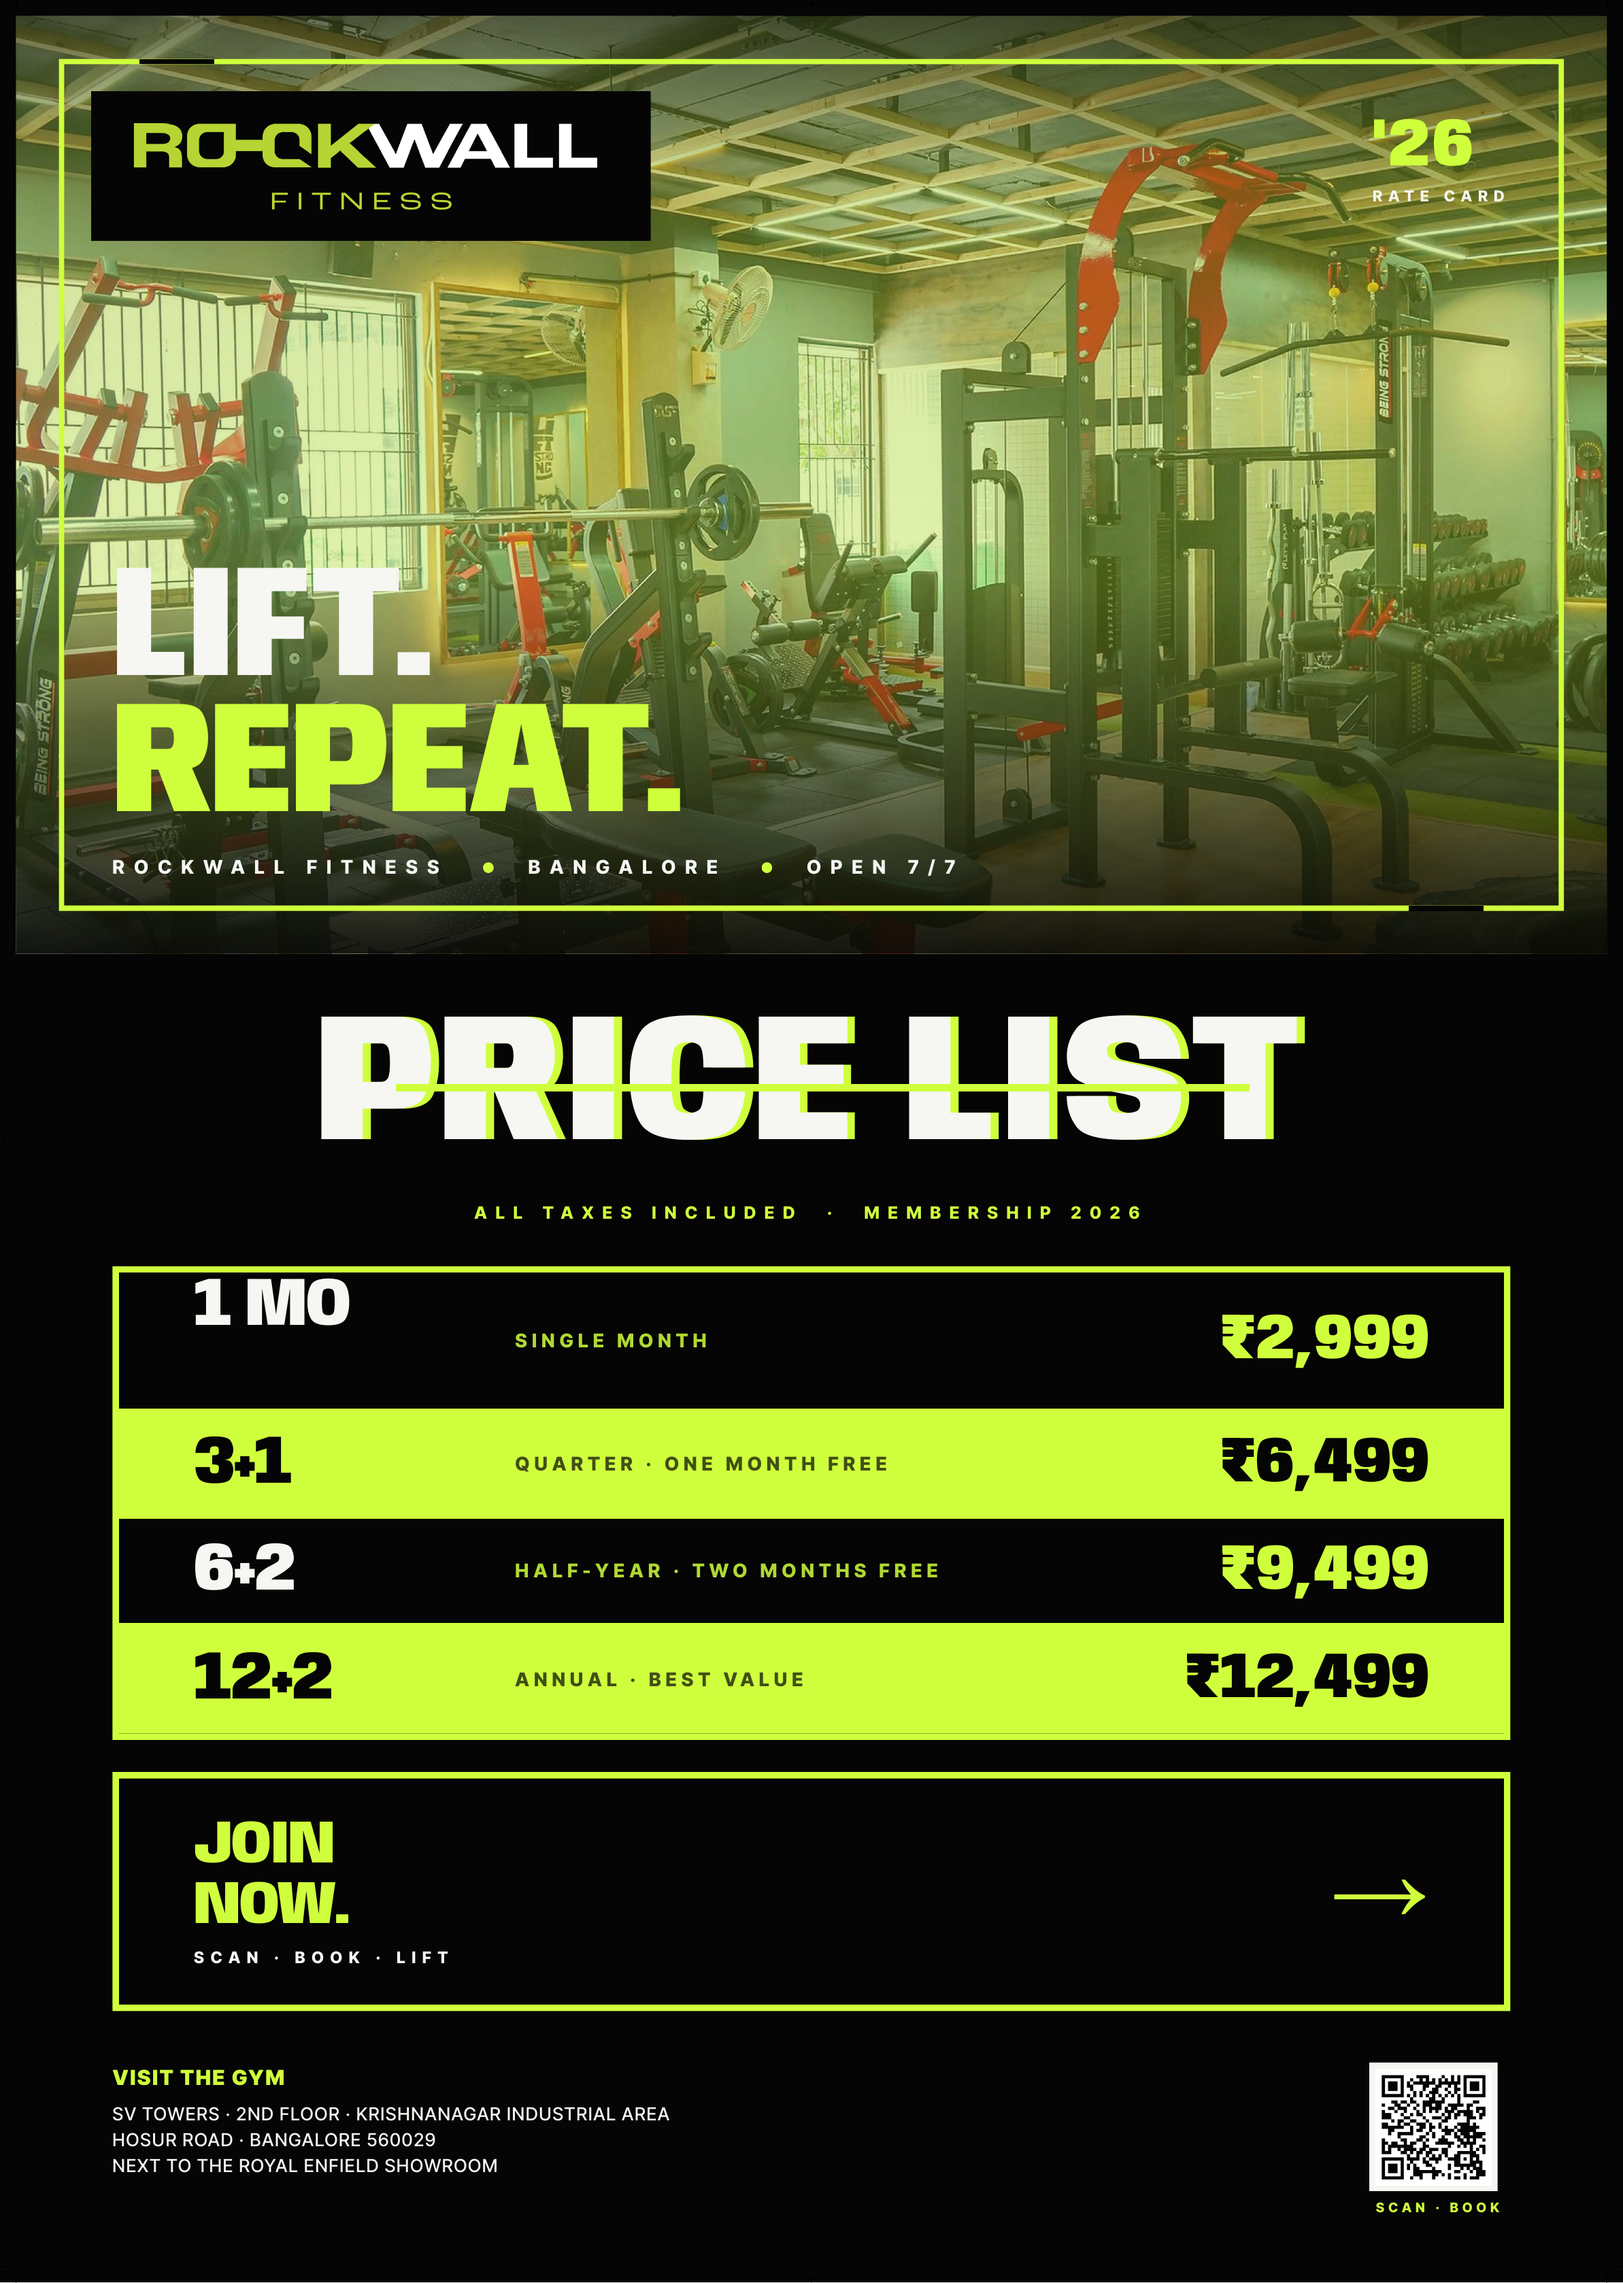
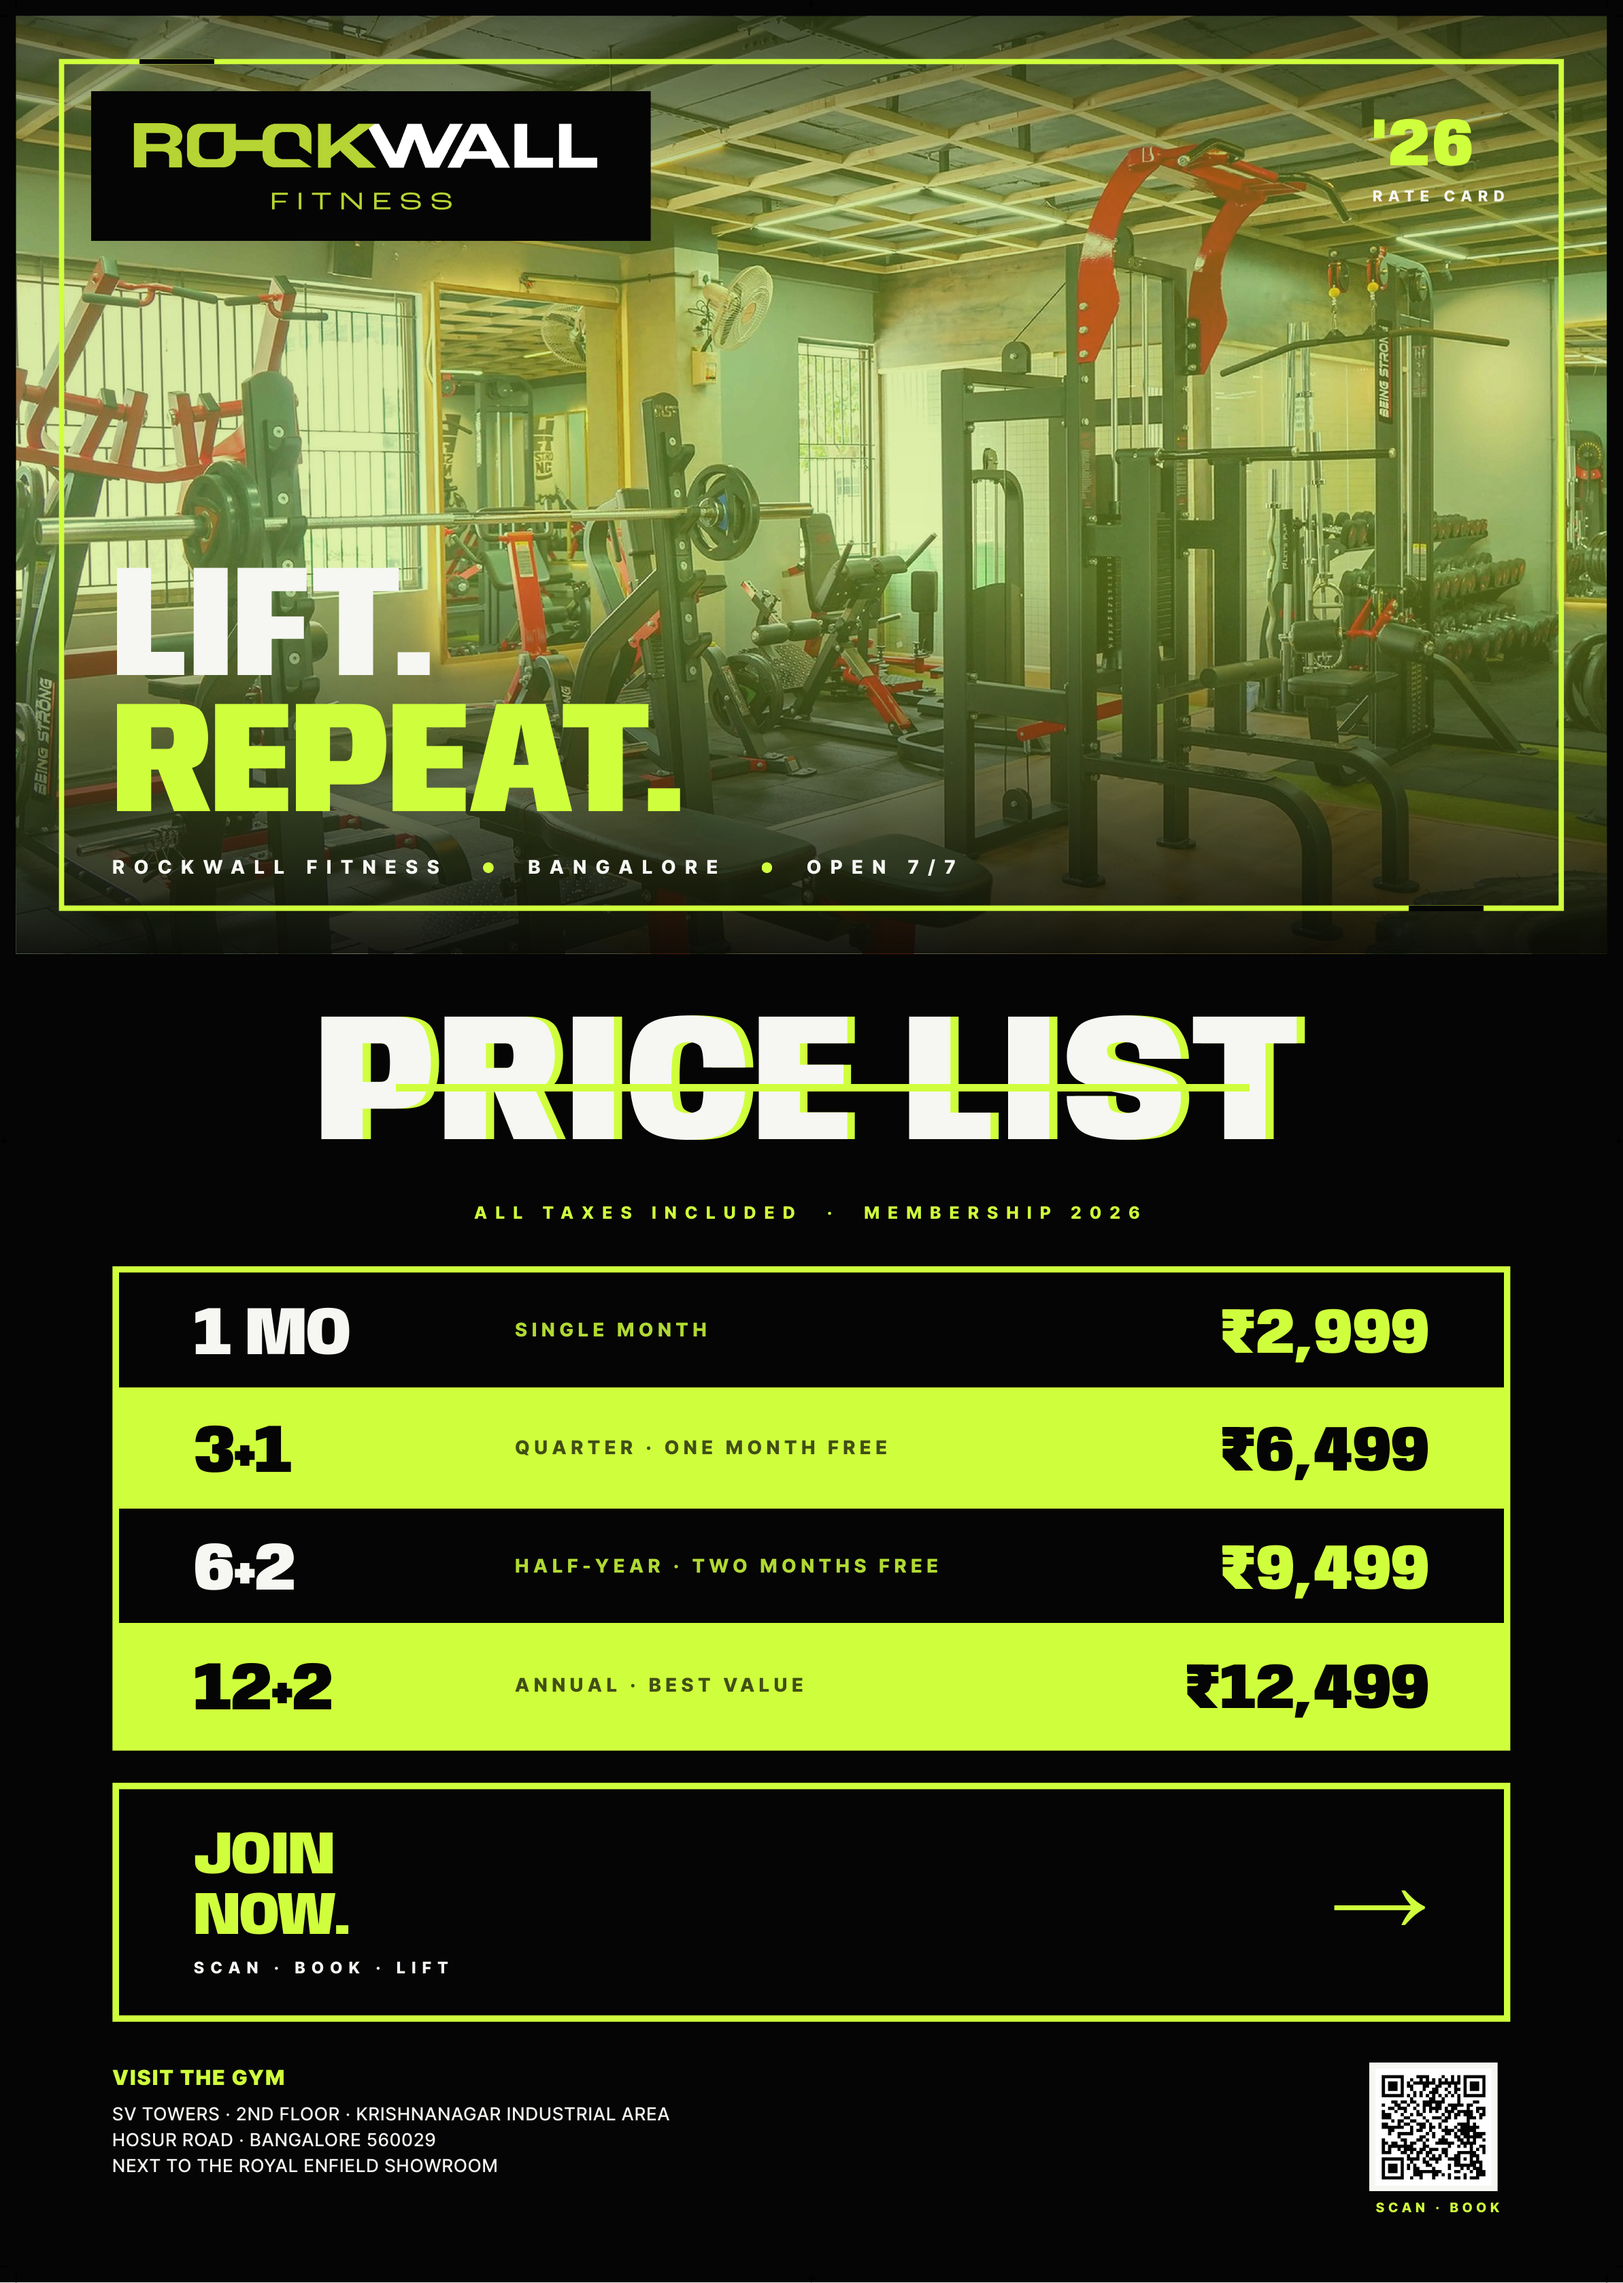
v3: fix 1 MO vertical alignment in price row
The first row had its '1 MO' text sitting high in the row while the other
rows (3+1, 6+2, 12+2) appeared vertically centered. Caused by Anybody
font's cap-height vs line-box geometry with line-height:1 — short 2-char
content rendered differently than the 3-char tiers.

Fix: tightened line-height to 0.82 and added padding-top:2mm on .row-tier
and .row-price for visual symmetry. Added white-space:nowrap to prevent
the space in '1 MO' from wrapping. .price-row uses align-items:stretch so
each cell handles its own centering with display:flex+align-items:center.

Changed region(s): [[0.062, 0.713, 0.9304, 0.899], [0.062, 0.558, 0.9304, 0.713]]

diff --git a/poster_v3.html b/poster_v3.html
@@ -218,10 +218,14 @@
   }
   .price-row {
     display: flex;
-    align-items: center;
+    align-items: stretch;
     border-bottom: 0.6mm solid #CFFF3C;
-    min-height: 20mm;
+    min-height: 22mm;
     padding: 0 14mm;
+  }
+  .price-row > div {
+    display: flex;
+    align-items: center;
   }
   .price-row:last-child { border-bottom: none; }
   .price-row.even { background: #050505; }
@@ -233,8 +237,10 @@
     font-weight: 900;
     font-variation-settings: "wdth" 150;
     font-size: 36pt;
-    line-height: 1;
+    line-height: 0.82;
     letter-spacing: -0.01em;
+    padding-top: 2mm;
+    white-space: nowrap;
   }
   .row-bonus {
     flex: 1 1 auto;
@@ -252,8 +258,10 @@
     font-weight: 900;
     font-variation-settings: "wdth" 150;
     font-size: 34pt;
-    line-height: 1;
+    line-height: 0.82;
     letter-spacing: -0.01em;
+    padding-top: 2mm;
+    white-space: nowrap;
   }
   .price-row.even .row-price { color: #CFFF3C; }
   .price-row.odd  .row-price { color: #050505; }
